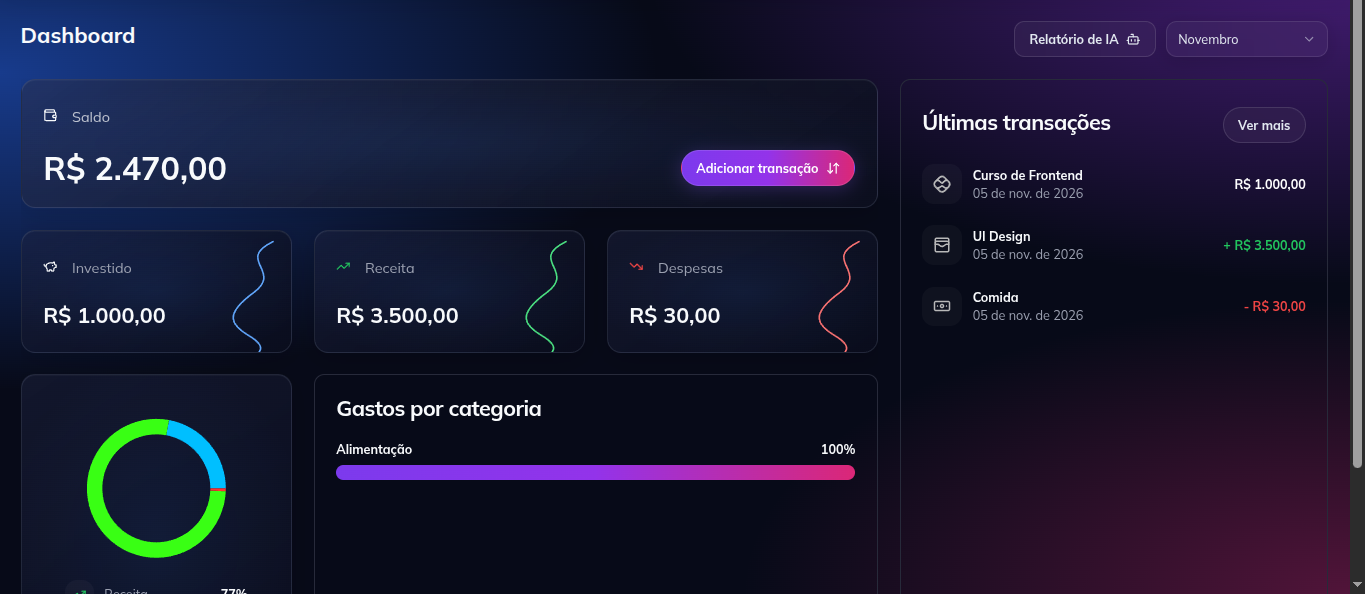
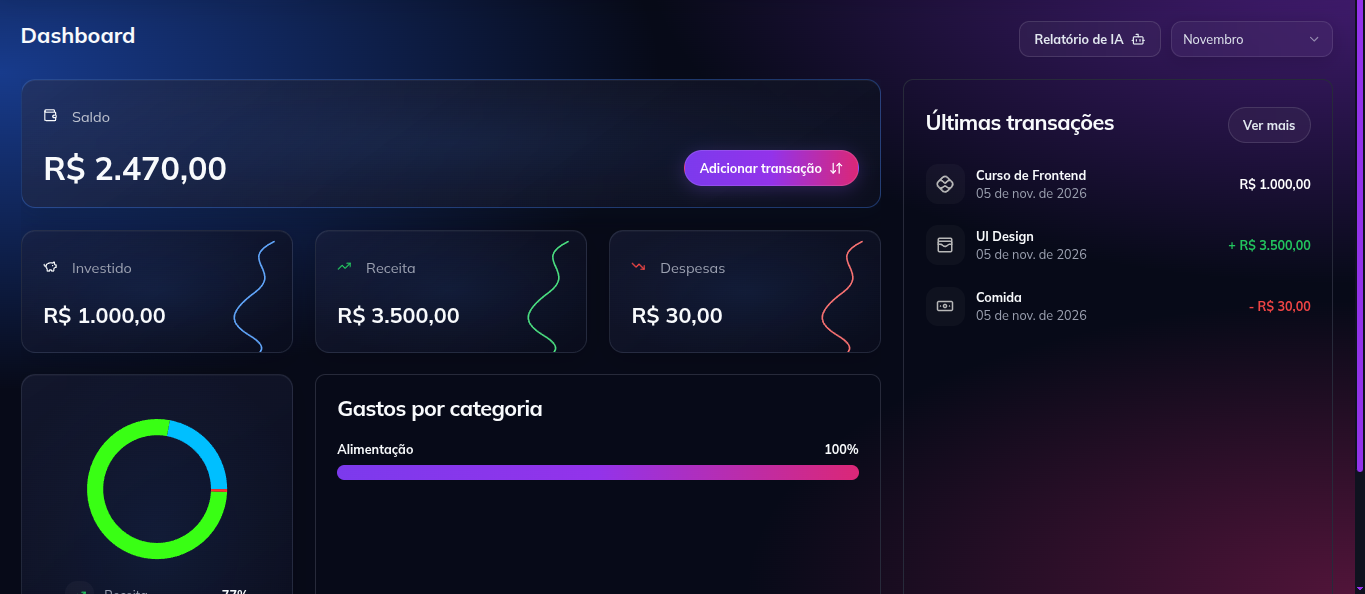
feat: modern scroll bar

diff --git a/app/globals.css b/app/globals.css
@@ -66,6 +66,35 @@
   }
 }
 
+@layer base {
+  * {
+    scrollbar-width: thin;
+    scrollbar-color: #9333ea rgba(255, 255, 255, 0.03);
+  }
+
+  *::-webkit-scrollbar {
+    width: 8px;
+    height: 8px;
+  }
+
+  *::-webkit-scrollbar-track {
+    background: rgba(255, 255, 255, 0.03);
+    border-radius: 999px;
+  }
+
+  *::-webkit-scrollbar-thumb {
+    background: linear-gradient(180deg, #2563eb 0%, #9333ea 50%, #db2777 100%);
+    border-radius: 999px;
+    border: 2px solid transparent;
+    background-clip: padding-box;
+  }
+
+  *::-webkit-scrollbar-thumb:hover {
+    background: linear-gradient(180deg, #3b82f6 0%, #a855f7 50%, #ec4899 100%);
+    background-clip: padding-box;
+  }
+}
+
 @layer components {
   .dashboard-card {
     --card-glow: 139, 92, 246;
